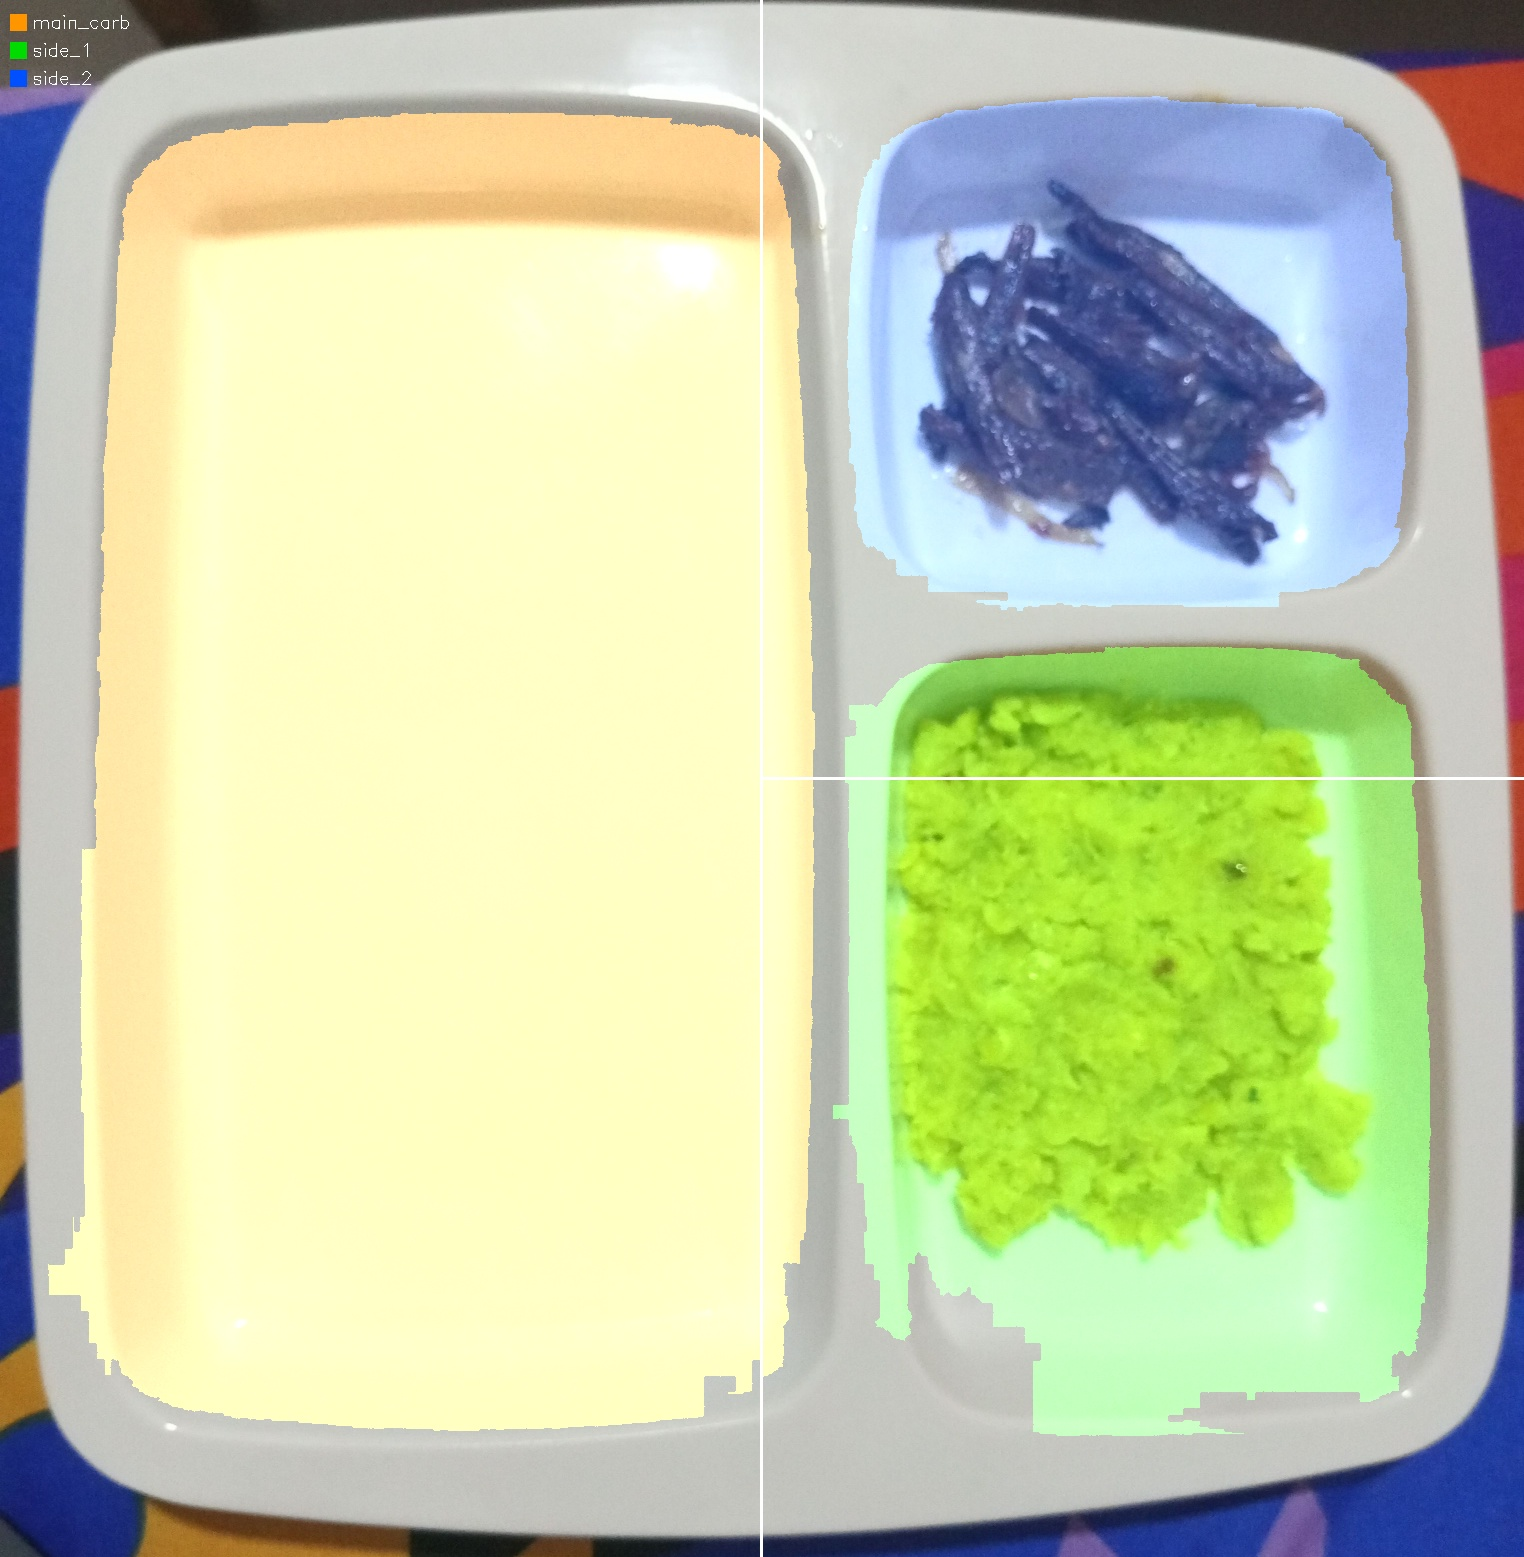
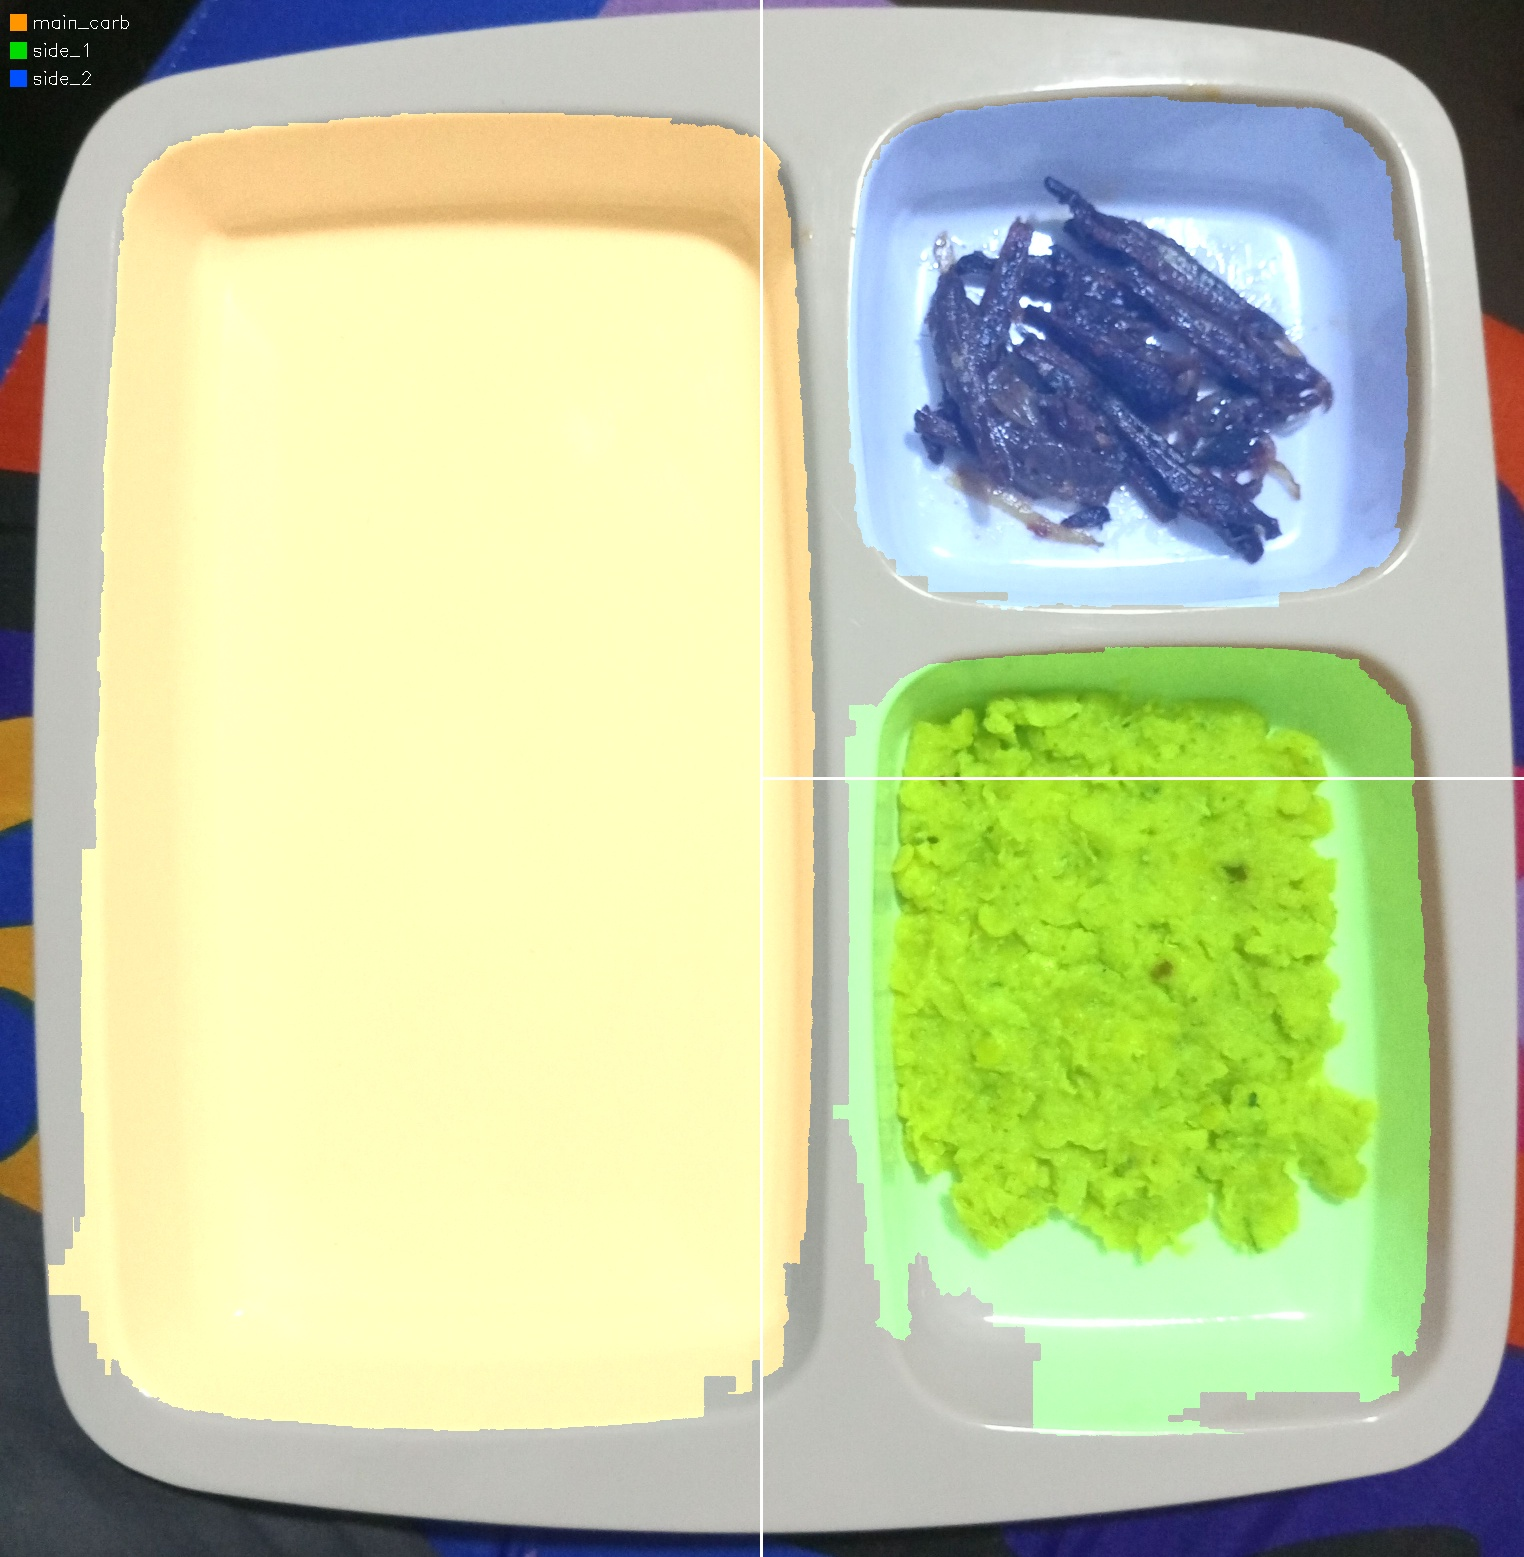
calculation log

diff --git a/mobile-app/src/screens/MealAnalysisScreen.js b/mobile-app/src/screens/MealAnalysisScreen.js
@@ -525,6 +525,17 @@ const MealAnalysisScreen = ({ route, navigation }) => {
         protein:    (foodData.protein    * totalGrams) / 100,
       };
 
+      // --- PORTION VERIFICATION LOG ---
+      const portionSource = !item.manuallyEdited && item.autoPortionGrams && item.autoPortionGrams > 0
+        ? "AI-auto"
+        : item.isManuallyAdded
+        ? "manual-add"
+        : "manual-edit";
+      console.log(
+        `[Portion] ${normalizedName.padEnd(20)} | compartment: ${(item.compartment || "n/a").padEnd(12)} | source: ${portionSource.padEnd(11)} | ${totalGrams.toFixed(1)}g` +
+        ` → Na:${itemNutrients.sodium.toFixed(1)}mg  K:${itemNutrients.potassium.toFixed(1)}mg  P:${itemNutrients.phosphorus.toFixed(1)}mg  Pro:${itemNutrients.protein.toFixed(1)}g`
+      );
+
       totalNutrients.sodium     += itemNutrients.sodium;
       totalNutrients.potassium  += itemNutrients.potassium;
       totalNutrients.phosphorus += itemNutrients.phosphorus;
@@ -539,6 +550,13 @@ const MealAnalysisScreen = ({ route, navigation }) => {
         ...itemNutrients,
       });
     });
+
+    // --- TOTALS SUMMARY LOG ---
+    console.log(
+      `[Portion] ${"── TOTALS ──".padEnd(20)} | items: ${items.length}` +
+      ` → Na:${totalNutrients.sodium.toFixed(1)}mg  K:${totalNutrients.potassium.toFixed(1)}mg  P:${totalNutrients.phosphorus.toFixed(1)}mg  Pro:${totalNutrients.protein.toFixed(1)}g`
+    );
+
     return { totalNutrients, breakdown };
   };
 
